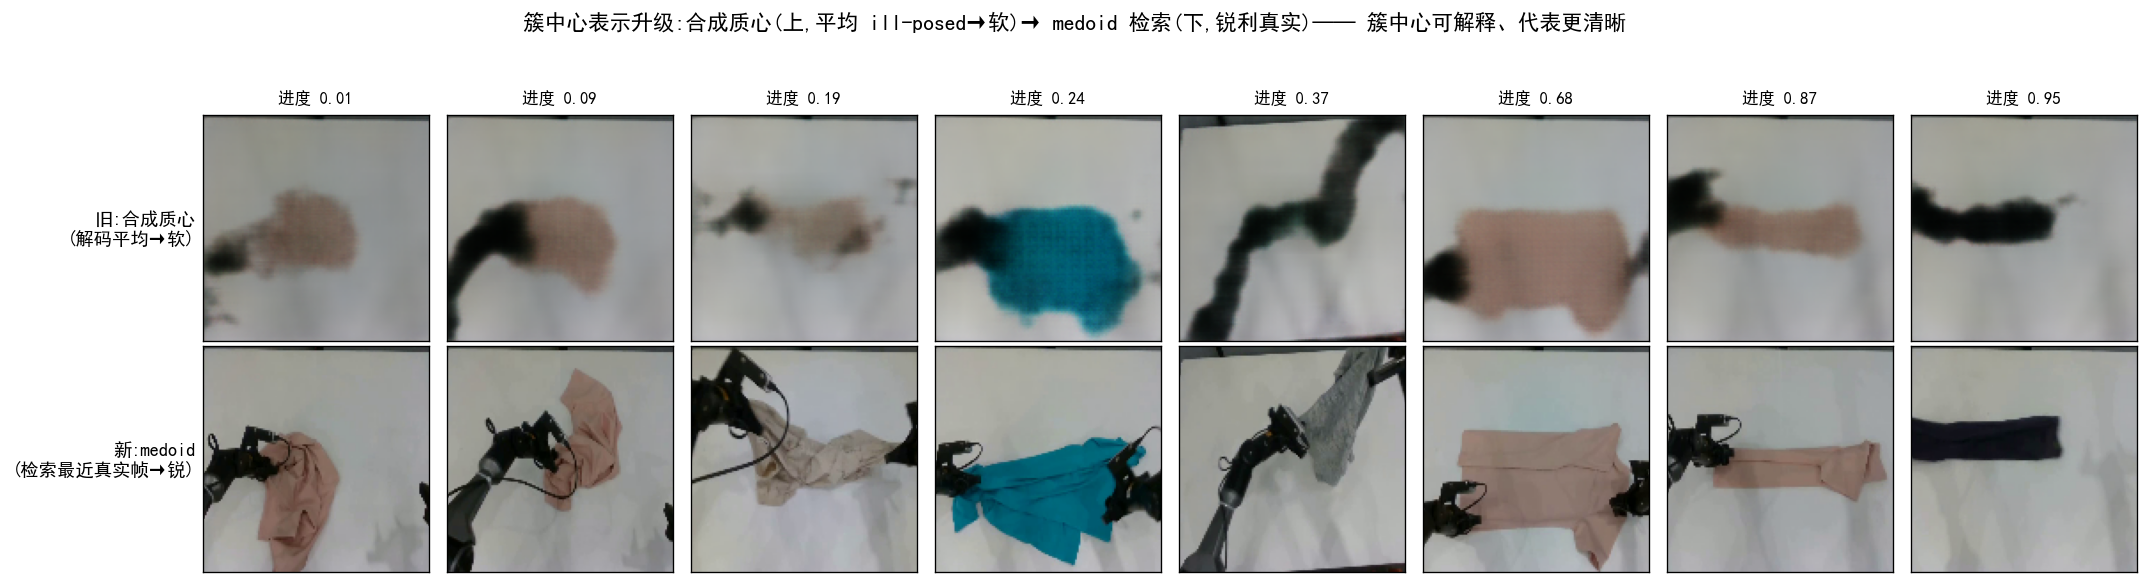
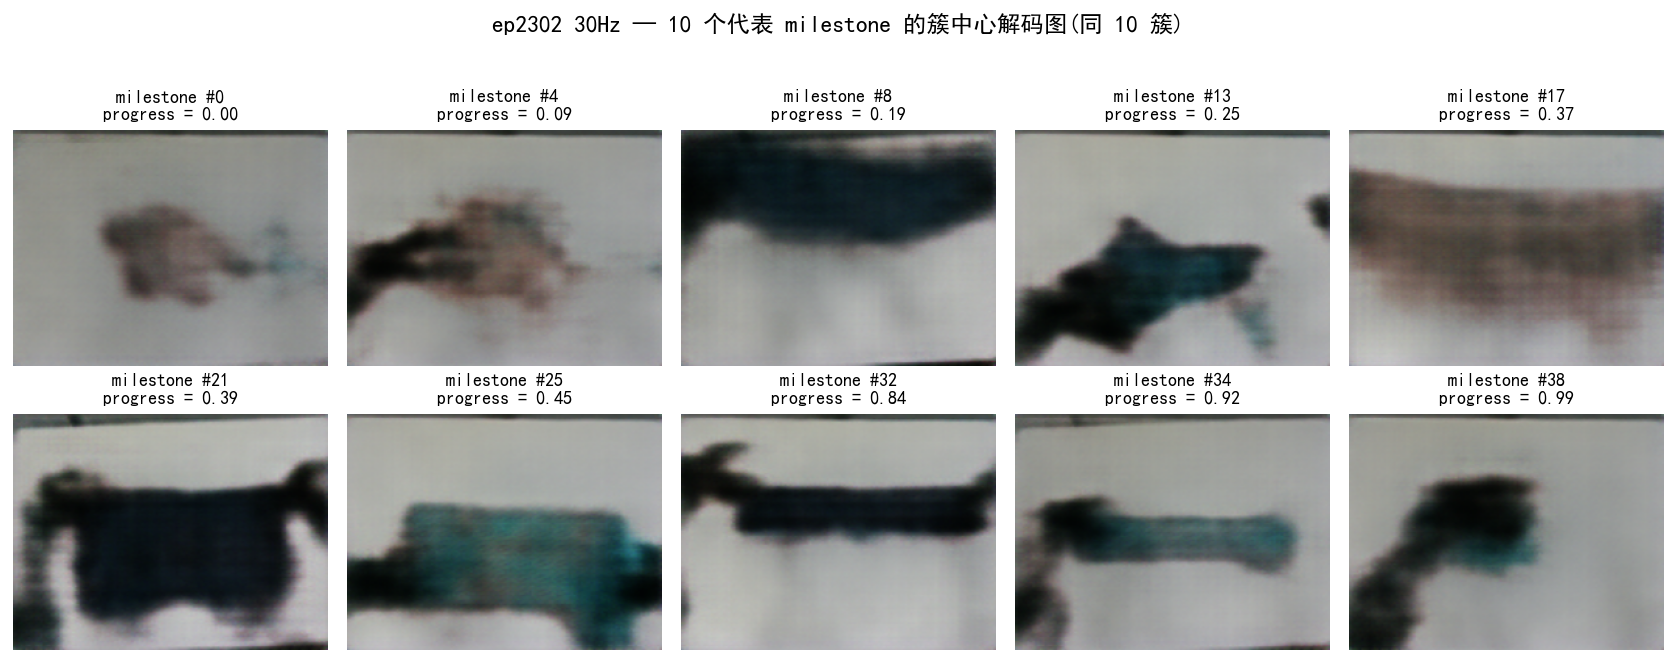
Revert medoid swap: decoded-centroid proves cluster-center validity (medoid can't)
Correct a conceptual error: the medoid (nearest member) trivially exists for
any cluster and does NOT validate the center itself. The decoded centroid
decodes the actual center latent — its consistency with member frames is the
proof that the averaged center is a meaningful semantic point. Softness is
acceptable here; consistency, not sharpness, is the evidence.

- Restore §2.1 recurrence_milestone.png + §4.1 milestone_repr_decode.png to
  the decoded-centroid figures; captions updated to state the proof explicitly.
- Doc: reframe as two orthogonal uses (sharp representative = medoid/retrieval;
  center-validity proof = decode the center), not medoid-supersedes-synthesis.

diff --git a/web/showcase/reports/crave_report/index.html b/web/showcase/reports/crave_report/index.html
@@ -213,8 +213,8 @@ a.link{color:var(--accent3);text-decoration:none;border-bottom:1px dashed var(--
 <h3>2.1 灵感来源:反复出现 = 任务必经结构</h3>
 <p>同一任务的众多 demo 里,<b>关键 milestone 会在不同 episode 反复出现</b>(抓取→摊开→对折→叠好)。把"跨 episode 的统计重复性"当作无标签的监督信号:<b>反复出现的状态 = 任务必经 milestone</b>。</p>
 <figure>
-  <img src="assets/recurrence_milestone.png" alt="同一 milestone 在不同 episode 反复出现(medoid)">
-  <figcaption><b>反复出现 = 任务必经结构</b>:一个高覆盖的 kai0 milestone(任务进度≈0.37,<b>覆盖 78% episodes</b>)—— 左=milestone 代表(<b>medoid</b>,离簇心最近的真实帧),右=该状态在 6 条不同 episode(不同布料颜色,cos 0.91–0.92)里反复出现的真实帧。CRAVE 正是把这种"跨 episode 复现"当作 progress 来源。</figcaption>
+  <img src="assets/recurrence_milestone.png" alt="同一 milestone 在不同 episode 反复出现">
+  <figcaption><b>反复出现 = 任务必经结构</b>:一个高覆盖的 kai0 簇(任务进度≈0.60,<b>覆盖 50% episodes</b>)—— 左=<b>簇中心解码图</b>(解码"平均 latent"→ 与右侧真实帧一致,证明簇中心是合理的语义平均),右=该状态在 6 条不同 episode(甚至不同布料颜色)里反复出现的真实帧。CRAVE 正是把这种"跨 episode 复现"当作 progress 来源。</figcaption>
 </figure>
 <h3>2.2 三步直觉(全程零训练)</h3>
 <div class="flow">
@@ -268,7 +268,7 @@ a.link{color:var(--accent3);text-decoration:none;border-bottom:1px dashed var(--
   <a href="assets/encoder_decoder_arch_hq.png" target="_blank" rel="noopener"><img src="assets/encoder_decoder_arch_hq.png" alt="CRAVE 编解码架构图高清版"></a>
   <figcaption><b>② 编解码架构</b>:真实帧→DINOv3-H 编码→token features→flatten + state 拼接→K-Means 统一 latent 聚类→去除 state component 得到 image-token 簇中心→decoder 重建簇中心图。页面内按普通配图宽度展示。</figcaption>
 </figure>
-<figure><img src="assets/milestone_repr_decode.png" alt="簇中心表示:合成质心 vs medoid"><figcaption><b>③ 簇中心表示升级(合成 → medoid)</b>:8 个 milestone 的簇中心表示 —— 上=旧合成质心(解码平均→<b>软</b>,锐度 113),下=<b>medoid</b> 检索最近真实帧(<b>锐利真实</b>,锐度 961≈真实,8.5×)。簇中心可解释、清晰代表靠 medoid;合成"平均质心"对可形变布料 <b>ill-posed 恒软</b>(换编码器/加规模救不动)。</figcaption></figure>
+<figure><img src="assets/milestone_repr_decode.png" alt="10 个代表 milestone 的簇中心解码图"><figcaption><b>③ 可解释 + 簇中心合理(簇中心解码图)</b>:同 10 个 milestone 的<b>簇中心解码图</b>(解码"平均 latent")—— 解码出的中心与上排真实帧一致,<b>证明簇中心是合理的语义平均</b>(medoid 只是最近成员、不能验证中心本身)。聚簇可解释、簇中心合理。</figcaption></figure>
 <h3>4.2 为什么用「簇平均 progress」当 milestone 进度(progress 一致性)</h3>
 <figure><img src="assets/value_consistency_proof.png" alt="progress 一致性证明">
   <figcaption><b>DINOv3-H 聚类的 progress 一致性证明</b>:(A)置信度过滤 t-SNE (K=10, CQ=0.85),仅高置信点训练降维,低置信点灰色投影,各簇一色;(B)每帧 progress vs 其所在簇平均 progress,相干簇(各色)紧贴对角线,R²=0.84,证明簇平均可以可靠代表 milestone 进度。</figcaption>

diff --git a/crave/docs/milestone_centroid_decoding.md b/crave/docs/milestone_centroid_decoding.md
@@ -172,11 +172,16 @@ milestone 代表图原来用"离簇心最近的真实帧(medoid)"。本线探索
 
 **一句话**:`DINOv3-H 编码器 + 检索(最近真实帧)最佳解码器 + 自适应 milestone + 自适应 value bins`。
 
-## 可选:合成"可读质心"(已被检索取代为默认)
+## 簇中心解码图 vs medoid:两个**正交**用途,别相互取代
 
-需要**去具体化的合成原型图**(不绑某条 demo 的布料颜色)时,用 small(0.92M)空间解码器解码簇中心 **patch-grid**(非池化)+ L1 + ~9k 帧(历史最优合成配置,DINOv2/DINOv3-H patch-grid 通用)。注意其**天生软**(cos ~0.42、锐度 ~112 vs 真实 ~950)、且**平均质心 ill-posed**(加规模/换损失救不动,§2.4)。**默认代表图请用检索**;合成仅用于"必须造 demo 集外新状态"或"刻意抽象的示意图"。
+| 用途 | 用什么 | 为什么 |
+|---|---|---|
+| **最清晰的代表图**(可视化 / VLA 子目标) | **medoid / 检索**(锐,961) | 要真实照片级清晰;合成平均恒软 |
+| **证明簇中心合理**(平均 latent 是有意义的语义点) | **解码簇中心本身**(簇中心解码图) | **medoid 做不到** —— 最近成员对任何簇都平凡存在,不验证中心;唯有解码"平均 latent"、看它是否渲染出与成员一致的连贯状态,才证明这个平均有意义 |
 
-**"换更好的编码器能否救簇中心解码?"—— 不能,是平均 ill-posed,非编码器问题。** 逐 milestone 对比:合成质心(pooled 解码,锐度 **113**、软)vs medoid(检索离中心最近的真实帧,锐度 **961≈真实**,**8.5×**),换编码器/加规模都动不了合成那条。→ 清晰的簇中心图 = **medoid 检索**,编码器无关。证据图 `visualization/decoder_benchmark/milestone_synth_vs_medoid.png`;全 37 milestone 的 medoid 词表(按进度排序,升级版 milestone 配图)`visualization/decoder_benchmark/milestone_medoid_gallery.png`(脚本 `crave/experiments/milestone_centroid_repr.py`)。
+**关键澄清(修正早前措辞)**:簇中心解码图**不是被 medoid 取代**。它解码的是**中心本身**,其与真实成员帧的**一致性 = 簇中心合理性的证据**;此处**"软"是可接受的**(patch-grid 解码平均 latent,§2.4 已证可形变布料平均 ill-posed 恒软),要看的是**一致性不是锐度**。用于展示的合成质心用 small(0.92M)空间解码器解码 **patch-grid**(非池化)中心 + L1 + ~9k 帧。
+
+**"换更好的编码器能否让簇中心解码更锐?"—— 不能**(平均 ill-posed,非编码器问题;逐 milestone 合成 113 vs medoid 961,证据图 `visualization/decoder_benchmark/milestone_synth_vs_medoid.png`)。但这**不影响**其"证明簇中心合理"的用途 —— 那靠一致性,不靠锐度。附:全 37 milestone 的 medoid 词表(锐利代表图用)`visualization/decoder_benchmark/milestone_medoid_gallery.png`(脚本 `crave/experiments/milestone_centroid_repr.py`)。
 
 ## 适用范围与诚实边界
 